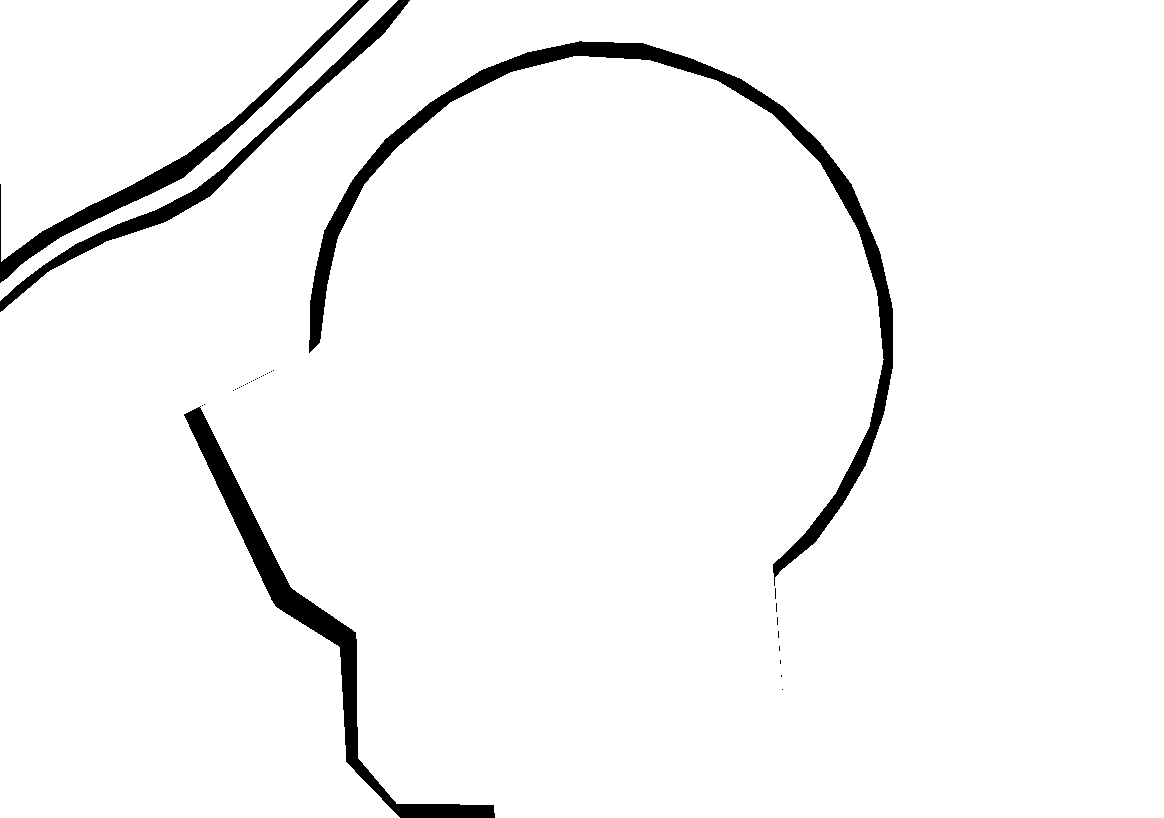
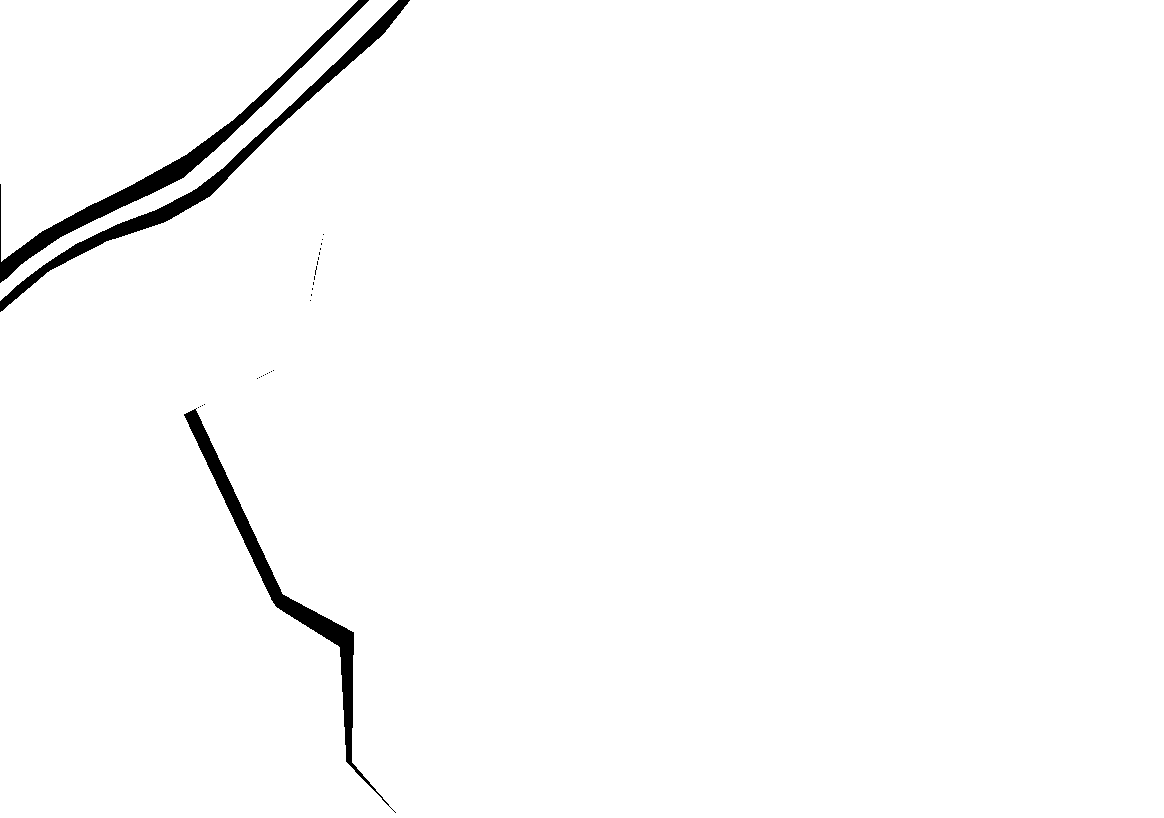
Working with ASOOM, back to semantics from geometry

diff --git a/src/top_down_render.cpp b/src/top_down_render.cpp
@@ -9,13 +9,13 @@ void TopDownRender::initialize() {
   bool use_motion_prior;
   nh_.param<bool>("use_motion_prior", use_motion_prior, false);
   if (use_motion_prior) {
-    pc_sync_sub_ = new message_filters::Subscriber<pcl::PointCloud<PointOS1>>(nh_, "pc", 50);
+    pc_sync_sub_ = new message_filters::Subscriber<pcl::PointCloud<PointType>>(nh_, "pc", 50);
     motion_prior_sync_sub_ = new message_filters::Subscriber<geometry_msgs::PoseStamped>(nh_, "motion_prior", 50);
-    scan_sync_sub_ = new message_filters::TimeSynchronizer<pcl::PointCloud<PointOS1>, geometry_msgs::PoseStamped>(
+    scan_sync_sub_ = new message_filters::TimeSynchronizer<pcl::PointCloud<PointType>, geometry_msgs::PoseStamped>(
                       *pc_sync_sub_, *motion_prior_sync_sub_, 50);
     scan_sync_sub_->registerCallback(&TopDownRender::pcCallback, this);
   } else {
-    pc_sub_ = nh_.subscribe<pcl::PointCloud<PointOS1>>("pc", 10, 
+    pc_sub_ = nh_.subscribe<pcl::PointCloud<PointType>>("pc", 10, 
                 std::bind(&TopDownRender::pcCallback, this, std::placeholders::_1, 
                           geometry_msgs::PoseStamped::ConstPtr()));
   }
@@ -54,6 +54,7 @@ void TopDownRender::initialize() {
 
   //Handle inputs
   flatten_lut_ = Eigen::VectorXi::Zero(256);
+  /*
   flatten_lut_[100] = 2; //road
   flatten_lut_[101] = 3; //dirt
   flatten_lut_[102] = 1; //grass
@@ -65,6 +66,13 @@ void TopDownRender::initialize() {
   flatten_lut_[13] = 2;  //car
   flatten_lut_[14] = 2;  //truck
   flatten_lut_[15] = 2;  //bus
+  */
+  flatten_lut_[0] = 2;   //road
+  flatten_lut_[1] = 5;   //veg
+  flatten_lut_[2] = 4;   //building
+  flatten_lut_[3] = 1;   //terrain
+  flatten_lut_[4] = 2;   //car
+
 
   float svg_res = -1;
   float raster_res = 1;
@@ -123,9 +131,16 @@ void TopDownRender::initialize() {
     ROS_INFO_STREAM("Loading map from file");
     std::string map_path;
     nh_.getParam("map_path", map_path);
+    nh_.param<float>("map_pub_scale", map_pub_scale_, 0.2);
     background_img_ = cv::imread(map_path+".png", cv::IMREAD_COLOR);
+
+    cv::Mat background_copy_small;
+    cv::resize(background_img_, background_copy_small,
+        cv::Size(static_cast<int>(background_img_.cols*map_pub_scale_), 
+                 static_cast<int>(background_img_.rows*map_pub_scale_)));
     //Publish the map image
-    sensor_msgs::ImagePtr img_msg = cv_bridge::CvImage(std_msgs::Header(), "bgr8", background_img_).toImageMsg();
+    sensor_msgs::ImagePtr img_msg = cv_bridge::CvImage(std_msgs::Header(), 
+        "bgr8", background_copy_small).toImageMsg();
     map_pub_.publish(img_msg);
 
     if (use_raster) {
@@ -260,7 +275,8 @@ void TopDownRender::updateFilter(std::vector<Eigen::ArrayXXf> &top_down,
 
   cv::Mat background_copy_small;
   cv::resize(background_copy, background_copy_small,
-      cv::Size(static_cast<int>(background_copy.cols*0.2), static_cast<int>(background_copy.rows*0.2)));
+      cv::Size(static_cast<int>(background_copy.cols*map_pub_scale_), 
+               static_cast<int>(background_copy.rows*map_pub_scale_)));
 
   //Publish visualization
   sensor_msgs::ImagePtr img_msg = cv_bridge::CvImage(std_msgs::Header(), "bgr8", background_copy_small).toImageMsg();
@@ -268,7 +284,7 @@ void TopDownRender::updateFilter(std::vector<Eigen::ArrayXXf> &top_down,
   map_pub_.publish(img_msg);
 }
 
-void TopDownRender::pcCallback(const pcl::PointCloud<PointOS1>::ConstPtr& cloud,
+void TopDownRender::pcCallback(const pcl::PointCloud<PointType>::ConstPtr& cloud,
                                const geometry_msgs::PoseStamped::ConstPtr& motion_prior) {
   ROS_INFO_STREAM("pc cb");
   if (!map_->haveMap()) {
@@ -299,8 +315,8 @@ void TopDownRender::pcCallback(const pcl::PointCloud<PointOS1>::ConstPtr& cloud,
   }
 
   ROS_INFO_STREAM("Starting render");
-  //renderer_->renderSemanticTopDown(cloud, current_res_, 2*M_PI/100, top_down);
-  renderer_->renderGeometricTopDown(cloud, current_res_, 2*M_PI/100, top_down_geo);
+  renderer_->renderSemanticTopDown(cloud, current_res_, 2*M_PI/100, top_down);
+  //renderer_->renderGeometricTopDown(cloud, current_res_, 2*M_PI/100, top_down_geo);
 
   //convert pointcloud header to ROS header
   std_msgs::Header img_header;
@@ -412,13 +428,15 @@ void TopDownRender::liveMapCallback(const sensor_msgs::Image::ConstPtr &map,
   ROS_INFO_STREAM("Got new map");
   //Convert to cv
   cv_bridge::CvImageConstPtr map_ptr = cv_bridge::toCvShare(map, sensor_msgs::image_encodings::BGR8);
-  Eigen::Vector2i map_loc_eig(map_loc->point.x, map_loc->point.y);
+  Eigen::Vector2i map_loc_eig(map_loc->point.y, -map_loc->point.x);
+  map_loc_eig *= filter_->scale();
+  map_loc_eig += Eigen::Vector2i(map->width/2, map->height/2);
+
+  map_center_ = cv::Point(map_loc_eig[0], map->height - map_loc_eig[1]);
+  filter_->updateMap(map_ptr->image, map_loc_eig);
 
   //Use colored version for viz
-  background_img_ = cv_bridge::toCvShare(map_viz, sensor_msgs::image_encodings::BGR8)->image.clone();
-  map_center_ = cv::Point(map_loc_eig[0], background_img_.size().height - map_loc_eig[1]);
-
-  filter_->updateMap(map_ptr->image, map_loc_eig);
+  background_img_ = cv_bridge::toCvCopy(map_viz, sensor_msgs::image_encodings::BGR8)->image;
 }
 
 void TopDownRender::gtPoseCallback(const geometry_msgs::PoseStamped::ConstPtr& pose) {

diff --git a/src/particle_filter.cpp b/src/particle_filter.cpp
@@ -46,8 +46,8 @@ void ParticleFilter::initializeParticles() {
   num_particles_ = particles_.size();
   weights_ = Eigen::Matrix<float, 1, Eigen::Dynamic>::Ones(num_particles_)/num_particles_;
 
-  best_rel_pos_ = Eigen::Vector2f(0,0);
-  active_loc_ = new ActiveLocalizer(map_);
+  //best_rel_pos_ = Eigen::Vector2f(0,0);
+  //active_loc_ = new ActiveLocalizer(map_);
 
   //Initialize Gaussians
   computeGMM();
@@ -57,7 +57,7 @@ void ParticleFilter::initializeParticles() {
 
 void ParticleFilter::propagate(Eigen::Vector2f &trans, float omega) {
   particle_lock_.lock();
-  for (auto p : particles_) {
+  for (auto& p : particles_) {
     p->propagate(trans, omega, scale_frozen_);
   }
   particle_lock_.unlock();
@@ -98,14 +98,14 @@ void ParticleFilter::update(std::vector<Eigen::ArrayXXf> &top_down_scan,
 
   int last_num_particles = num_particles_;
   num_particles_ = 0;
-  for (auto cov : covs_) {
+  for (const auto& cov : covs_) {
     Eigen::Vector2cf eig = cov.block<2,2>(0,0).eigenvalues(); //complex vector
     num_particles_ += static_cast<int>(sqrt(eig[0].real())*sqrt(eig[1].real())); //Approximation of area of cov ellipse
   }
   num_particles_ = std::min(std::max(num_particles_, 3*last_num_particles/4+10), max_num_particles_); //bounds
   ROS_INFO_STREAM(num_particles_ << " particles");
 
-  //resize num_particles_
+  //resize new_particles_
   if (num_particles_ < new_particles_.size()) {
     new_particles_.resize(num_particles_);
   } else {
@@ -137,7 +137,7 @@ void ParticleFilter::meanLikelihood(Eigen::Vector4f &mean_state) {
   mean_state = Eigen::Vector4f::Zero();
   float cos_sum = 0;
   float sin_sum = 0;
-  for (auto particle : particles_) {
+  for (const auto& particle : particles_) {
     Eigen::Vector4f state = particle->mlState();
     mean_state += state;
     cos_sum += cos(state[2]);
@@ -152,7 +152,7 @@ void ParticleFilter::computeMeanCov(Eigen::Matrix4f &cov) {
   Eigen::Vector4f mean_likelihood_state;
   meanLikelihood(mean_likelihood_state);
 
-  for (auto particle : particles_) {
+  for (const auto& particle : particles_) {
     Eigen::Vector4f state = particle->mlState() - mean_likelihood_state;
     while (state[2] > M_PI) state[2] -= 2*M_PI;
     while (state[2] < -M_PI) state[2] += 2*M_PI;
@@ -168,7 +168,7 @@ void ParticleFilter::maxLikelihood(Eigen::Vector4f &state) {
 void ParticleFilter::computeCov(Eigen::Matrix4f &cov) {
   cov.setZero();
   Eigen::Vector4f max_likelihood_state = max_likelihood_particle_->mlState();
-  for (auto particle : particles_) {
+  for (const auto& particle : particles_) {
     Eigen::Vector4f state = particle->mlState() - max_likelihood_state;
     while (state[2] > M_PI) state[2] -= 2*M_PI;
     while (state[2] < -M_PI) state[2] += 2*M_PI;
@@ -254,17 +254,19 @@ void ParticleFilter::computeGMM() {
            0, 0, 1;
     covs_.push_back(cov);
   }
-  best_rel_pos_ = active_loc_->getBestRelPos(means_);
+  //best_rel_pos_ = active_loc_->getBestRelPos(means_);
   gmm_lock_.unlock();
 }
 
 void ParticleFilter::updateMap(const cv::Mat &map, const Eigen::Vector2i& map_center) {
   ROS_INFO_STREAM("updating map");
-  particle_lock_.lock();
   map_->updateMap(map, map_center);
 
   ROS_INFO_STREAM("updating particles");
+  ROS_INFO_STREAM(map_center);
+  ROS_INFO_STREAM(last_map_center_);
   Eigen::Vector2i map_center_delta = map_center - last_map_center_;
+  particle_lock_.lock();
   for (auto& particle : particles_) {
     State s = particle->state();
     s.init_x_px += map_center_delta[0];
@@ -293,6 +295,9 @@ void ParticleFilter::freezeScale() {
 }
 
 float ParticleFilter::scale() const {
+  if (params_.fixed_scale > 0) {
+    return params_.fixed_scale;
+  }
   if (scale_frozen_) {
     return particles_[0]->state().scale;
   }
@@ -301,7 +306,7 @@ float ParticleFilter::scale() const {
 
 void ParticleFilter::visualize(cv::Mat &img) {
   //Particle dist
-  for (auto p : particles_) {
+  for (const auto& p : particles_) {
     Eigen::Vector3f state = p->mlState().head<3>();
     cv::Point pt(state[0], 
                  img.size().height-state[1]);

diff --git a/include/top_down_render/top_down_render.h b/include/top_down_render/top_down_render.h
@@ -39,9 +39,9 @@ class TopDownRender {
     image_transport::ImageTransport *it_;
     tf2_ros::TransformBroadcaster *tf2_broadcaster_;
     ros::Subscriber pc_sub_;
-    message_filters::Subscriber<pcl::PointCloud<PointOS1>> *pc_sync_sub_;
+    message_filters::Subscriber<pcl::PointCloud<PointType>> *pc_sync_sub_;
     message_filters::Subscriber<geometry_msgs::PoseStamped> *motion_prior_sync_sub_;
-    message_filters::TimeSynchronizer<pcl::PointCloud<PointOS1>, geometry_msgs::PoseStamped> *scan_sync_sub_;
+    message_filters::TimeSynchronizer<pcl::PointCloud<PointType>, geometry_msgs::PoseStamped> *scan_sync_sub_;
 
     message_filters::Subscriber<sensor_msgs::Image> *map_image_sub_;
     message_filters::Subscriber<sensor_msgs::Image> *map_image_viz_sub_;
@@ -66,6 +66,8 @@ class TopDownRender {
     ParticleFilter *filter_;
     ScanRendererPolar *renderer_;
 
+    float map_pub_scale_ = 1;
+
     float current_res_ = 4; //m/px range
     bool is_converged_ = false;
 
@@ -77,7 +79,7 @@ class TopDownRender {
     void updateFilter(std::vector<Eigen::ArrayXXf> &top_down, 
                       std::vector<Eigen::ArrayXXf> &top_down_geo, float res, 
                       Eigen::Affine3f &motion_prior, std_msgs::Header &header);
-    void pcCallback(const pcl::PointCloud<PointOS1>::ConstPtr&, 
+    void pcCallback(const pcl::PointCloud<PointType>::ConstPtr&, 
                     const geometry_msgs::PoseStamped::ConstPtr &motion_prior);
     void liveMapCallback(const sensor_msgs::Image::ConstPtr &map,
                          const sensor_msgs::Image::ConstPtr &map_viz,

diff --git a/src/state_particle.cpp b/src/state_particle.cpp
@@ -77,7 +77,7 @@ void StateParticle::propagate(Eigen::Vector2f &trans, float omega, bool scale_fr
   last_dist_ = motion.norm();
 }
 
-void StateParticle::setState(State s) {
+void StateParticle::setState(const State& s) {
   state_.init_x_px = s.init_x_px;
   state_.init_y_px = s.init_y_px;
   state_.dx_m = s.dx_m;
@@ -123,7 +123,6 @@ float StateParticle::getCostForRot(std::vector<Eigen::ArrayXXf> &top_down_scan,
 
   float cost = 0;
   float normalization = 0;
-  /*
   for (int i=0; i<map_->numClasses(); i++) {
     //if (i == 4) continue; //ignore trees
     //if (i == 3) continue; //ignore buildings
@@ -132,13 +131,14 @@ float StateParticle::getCostForRot(std::vector<Eigen::ArrayXXf> &top_down_scan,
     cost += (top_down_scan[i].bottomRows(num_bins-rot_shift) * classes[i].topRows(num_bins-rot_shift)).sum()*0.01*class_weights_[i];
     normalization += top_down_scan[i].sum();
   }
-  */
+  /*
   for (int i=0; i<2; i++) {
     //geometric cost
     cost += (top_down_geo[i].topRows(rot_shift) * geo_cls[i].bottomRows(rot_shift)).sum()*0.01;
     cost += (top_down_geo[i].bottomRows(num_bins-rot_shift) * geo_cls[i].topRows(num_bins-rot_shift)).sum()*0.01;
     normalization += top_down_geo[i].sum();
   }
+  */
 
   if (isnan(cost/normalization)) {
     ROS_WARN("NAN");

diff --git a/src/scan_renderer_polar.cpp b/src/scan_renderer_polar.cpp
@@ -3,7 +3,7 @@
 ScanRendererPolar::ScanRendererPolar(const Eigen::VectorXi &flatten_lut) : ScanRenderer(flatten_lut) {
 }
 
-void ScanRendererPolar::renderGeometricTopDown(const pcl::PointCloud<PointOS1>::ConstPtr& cloud, 
+void ScanRendererPolar::renderGeometricTopDown(const pcl::PointCloud<PointType>::ConstPtr& cloud, 
                                                float res, float ang_res, std::vector<Eigen::ArrayXXf> &imgs) {
   if (imgs.size() < 2) return;
   Eigen::Vector2i img_size(imgs[0].rows(), imgs[0].cols());
@@ -21,7 +21,7 @@ void ScanRendererPolar::renderGeometricTopDown(const pcl::PointCloud<PointOS1>::
   }
 
   // Populate the bins
-  PointOS1 pcl_pt;
+  PointType pcl_pt;
   float theta, r;
   int theta_ind, r_ind;
   for (size_t idx=0; idx<cloud->width; idx++) {

diff --git a/include/top_down_render/scan_renderer.h b/include/top_down_render/scan_renderer.h
@@ -9,12 +9,14 @@
 #include <pcl/features/integral_image_normal.h>
 #include <pcl/visualization/cloud_viewer.h>
 
+typedef pcl::PointXYZRGB PointType;
+
 class ScanRenderer {
   public:
     ScanRenderer(const Eigen::VectorXi &flatten_lut);
     void renderSemanticTopDown(const pcl::PointCloud<pcl::PointXYZRGB>::ConstPtr& cloud, 
                                float res, std::vector<Eigen::ArrayXXf> &imgs);
-    void renderGeometricTopDown(const pcl::PointCloud<pcl::PointXYZRGB>::ConstPtr& cloud, 
+    void renderGeometricTopDown(const pcl::PointCloud<PointType>::ConstPtr& cloud, 
                                 float res, std::vector<Eigen::ArrayXXf> &imgs);
   protected:
     Eigen::VectorXi flatten_lut_;

diff --git a/include/top_down_render/scan_renderer_polar.h b/include/top_down_render/scan_renderer_polar.h
@@ -17,7 +17,7 @@ class ScanRendererPolar : public ScanRenderer {
     ScanRendererPolar(const Eigen::VectorXi &flatten_lut);
     void renderSemanticTopDown(const pcl::PointCloud<pcl::PointXYZRGB>::ConstPtr& cloud, 
                                float res, float ang_res, std::vector<Eigen::ArrayXXf> &imgs);
-    void renderGeometricTopDown(const pcl::PointCloud<PointOS1>::ConstPtr& cloud, 
+    void renderGeometricTopDown(const pcl::PointCloud<PointType>::ConstPtr& cloud, 
                                 float res, float ang_res, std::vector<Eigen::ArrayXXf> &imgs);
 };
 

diff --git a/src/top_down_map.cpp b/src/top_down_map.cpp
@@ -6,12 +6,13 @@
 #include "top_down_render/nanosvg.h"
 
 TopDownMap::TopDownMap(cv::Mat& color_lut, int num_classes, int num_ex, float res, const Eigen::VectorXi &flatten_lut) {
+  // Live map case
   resolution_ = res;
   num_classes_ = num_classes;
   num_exclusive_classes_ = num_ex;
   have_map_ = false;
   flatten_lut_ = flatten_lut;
-  out_of_bounds_const_ = 1;
+  out_of_bounds_const_ = 5;
 }
 
 TopDownMap::TopDownMap(std::string path, cv::Mat& color_lut, int num_classes, int num_ex, float res) {

diff --git a/include/top_down_render/state_particle.h b/include/top_down_render/state_particle.h
@@ -33,7 +33,7 @@ class StateParticle {
     void propagate(Eigen::Vector2f &trans, float omega, bool scale_freeze=false);
     State state() const;
     Eigen::Vector4f mlState();
-    void setState(State s);
+    void setState(const State& s);
     void computeWeight(std::vector<Eigen::ArrayXXf> &top_down_scan, 
                        std::vector<Eigen::ArrayXXf> &top_down_geo, float res);
     float weight() const;
